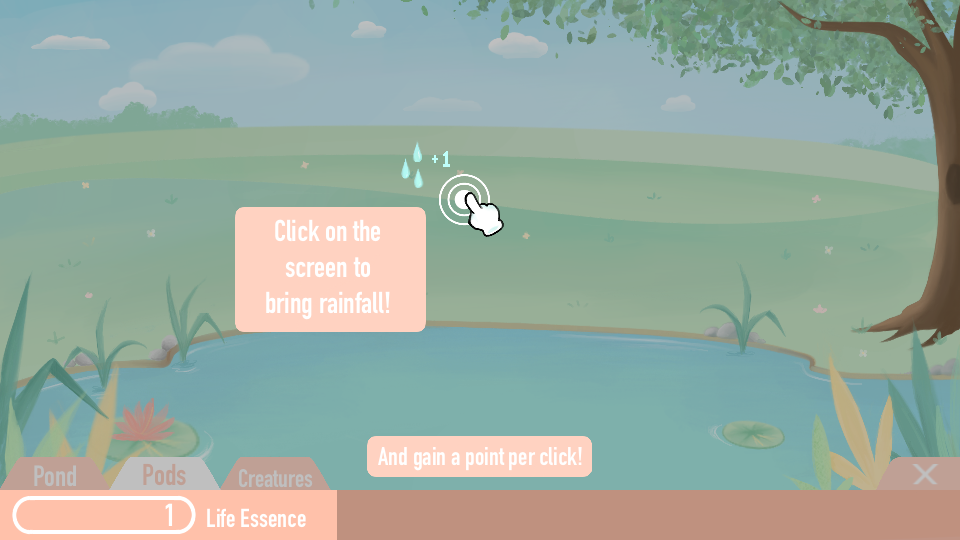
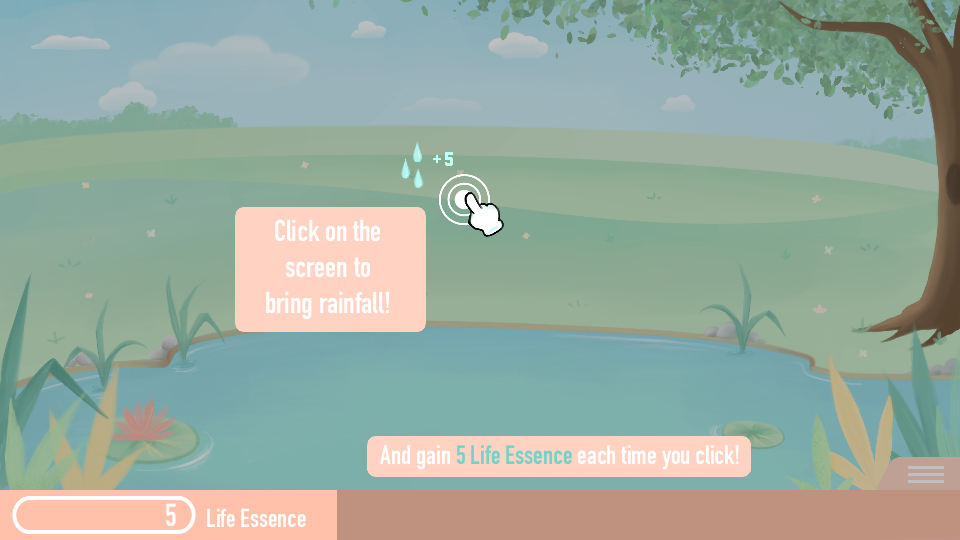
New tutorial, universal clicksound, better startup

Changed region(s): [[0.0, 0.8296, 0.3438, 0.9778], [0.375, 0.8, 0.7812, 0.8889], [0.9375, 0.8593, 1.0, 0.9185]]

diff --git a/scenes/Intro.js b/scenes/Intro.js
@@ -9,13 +9,15 @@ class Intro extends Phaser.Scene {
         this.load.image('lore3', './assets/lore3.png');
         this.load.image('lore4', './assets/lore4.png');
         this.load.image('tutorial', './assets/tutorial.png');
+        this.load.image('tutorial2', './assets/tutorial2.png');
+        this.load.audio('clicks', './assets/clicks.wav');
     }
 
     create(){
-        this.slides = ['tutorial', 'lore1', 'lore2', 'lore3', 'lore4'];
+        this.slides = ['tutorial', 'tutorial2', 'lore1', 'lore2', 'lore3', 'lore4'];
         this.justClicked = true;
         this.slideIndex = 0;
-        this.bg = this.add.image(0, 0, 'tutorial').setOrigin(0,0);
+        this.bg = this.add.image(0, 0, 'tutorial').setOrigin(0,0);  
         //this.add.rectangle(100,200, 200, 400, 0xfff)
         this.pointer = game.input.activePointer;
     }
@@ -35,6 +37,17 @@ class Intro extends Phaser.Scene {
             this.slideIndex++;
             this.bg.setTexture(this.slides[this.slideIndex]);
             this.justClicked = true;
+            let clicksound = {
+                mute: false,
+                volume: 2,
+                rate: 0.9,
+                detune: 0,
+                seek: 0,
+                loop: false,
+                delay: 0,
+                pan: 0
+            }
+            this.sound.play("clicks", clicksound); 
         }
         
     }

diff --git a/scenes/Menu.js b/scenes/Menu.js
@@ -15,26 +15,30 @@ class Menu extends Phaser.Scene{
 
       // initialize
       this.pointer = game.input.activePointer;
-      this.menuStart = false;
+      this.menuStart = true;
       this.justClicked = false;
     }
 
     update(){
       if (Phaser.Input.Keyboard.JustDown(keyC)) {
         this.scene.start('creditScene');    
+        let clicksound = {
+          mute: false,
+          volume: 2,
+          rate: 0.9,
+          detune: 0,
+          seek: 0,
+          loop: false,
+          delay: 0,
+          pan: 0
+        }
+        this.sound.play("clicks", clicksound);
       }
       var leftDown = this.pointer.leftButtonDown();
       if(this.pointer.leftButtonReleased()){
         this.justClicked = false;
       }
-      if(leftDown && !this.menuStart && !this.justClicked){
-        console.log("PreStart");
-        this.sound.play('menuMusic', {loop: true, volume: 0.2});
-        this.menuStart = true;
-        this.justClicked = true;
-      }
       if(leftDown && this.menuStart && !this.justClicked){
-          console.log("PostStart");
           let clicksound = {
             mute: false,
             volume: 2,

diff --git a/scenes/Credits.js b/scenes/Credits.js
@@ -16,7 +16,18 @@ class Credits extends Phaser.Scene{
 
     update(){
         if (Phaser.Input.Keyboard.JustDown(keyM)) {
-            this.scene.start('menuScene');    
+            this.scene.start('menuScene');   
+            let clicksound = {
+                mute: false,
+                volume: 2,
+                rate: 0.9,
+                detune: 0,
+                seek: 0,
+                loop: false,
+                delay: 0,
+                pan: 0
+            }
+            this.sound.play("clicks", clicksound); 
         }
     }
 }

diff --git a/scenes/Play.js b/scenes/Play.js
@@ -348,7 +348,7 @@ class Play extends Phaser.Scene {
         if(this.pointer.leftButtonDown() && this.canPress){
             this.sound.play('water', { volume: 0.1 });
             this.canPress = false;
-            this.score += 1;
+            this.score += 5;
             let dropper = this.add.sprite(this.pointer.x, this.pointer.y, 'drop').setOrigin(0, 0);
             dropper.play('drops');
             this.time.delayedCall(2000, () => {
